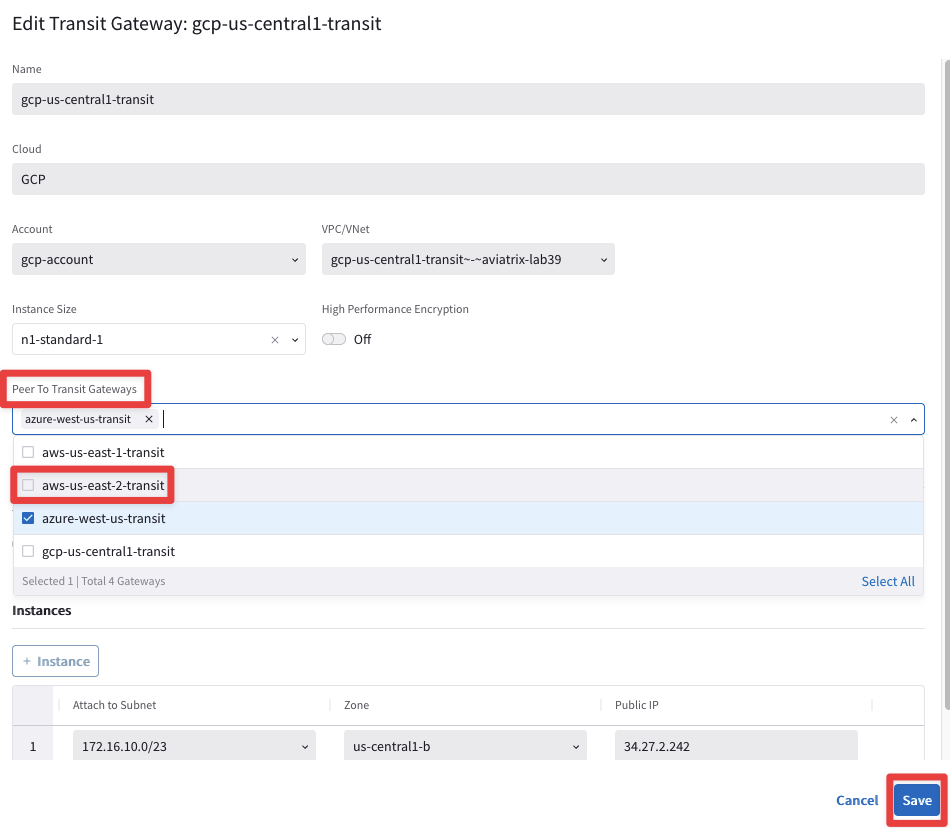
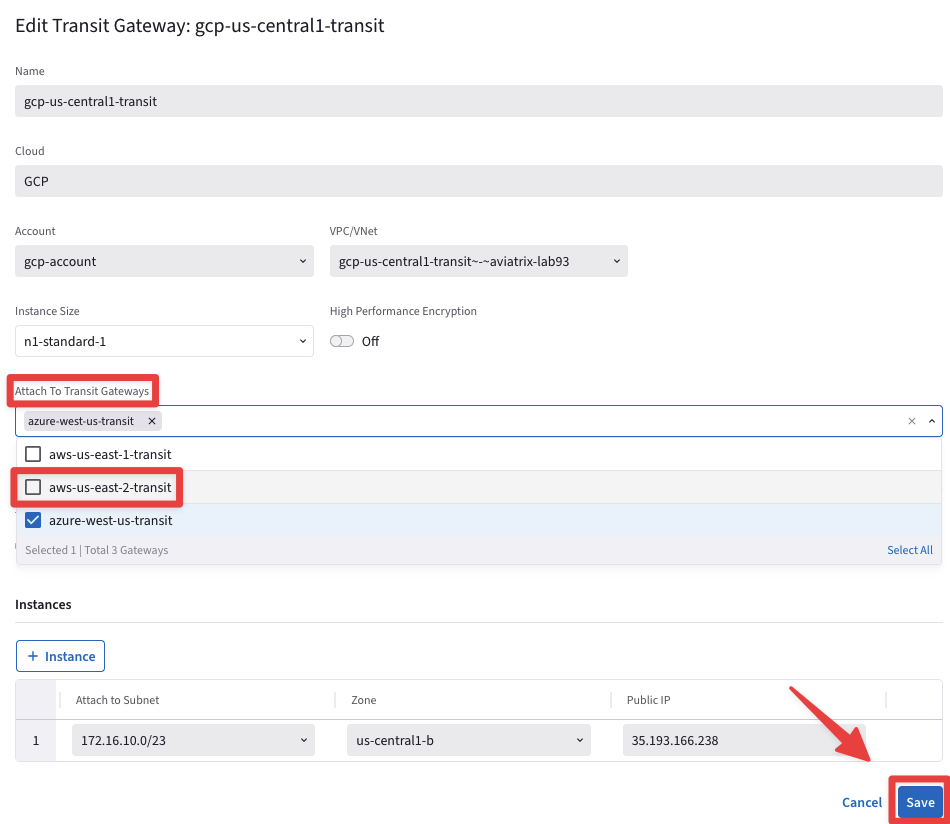
update for pro

diff --git a/ace_pro/docs/lab2.md b/ace_pro/docs/lab2.md
@@ -328,7 +328,7 @@ Commit
 These are very aggressive settings. In a Production environment, you should not set these intervals that frequently!
 ```
 
-## 4. Initial configuration
+## 5. Initial configuration
 
 Go to **CoPilot > Dashboard** and check the `Gateways Health` either of the Spoke GW Clusters or the Transit GW Clusters. 
 
@@ -386,7 +386,7 @@ You can notice that the cluster in AWS comprises two Spoke Gateways, whereas in 
 You can deploy up to maximum **fifteen** Spoke Gateways per each Spoke VPC/VNet/VCN.
 ```
 
-### 4.1. Aviatrix Transit Gateways
+### 5.1. Aviatrix Transit Gateways
 
 In this section, you will experience the power and simplicity of the Aviatrix platform by deploying (i.e. creating) 4 gateways:
 
@@ -412,7 +412,7 @@ align: center
 
 Deploy Aviatrix Transit Gateways in AWS **_East-2_** region. To save time, Aviatrix Transit Gateways in Azure, GCP and AWS east-1 region have already been pre-deployed in pairs for this lab.
 
-### 4.1.1.Transit Gateway in AWS US-EAST-2
+#### 5.1.1.Transit Gateway in AWS US-EAST-2
 
 Ensure these parameters are entered in the pop-up window `"Create Transit Gateway"`.
 
@@ -469,7 +469,7 @@ This action will instantiate the Transit Gateway with the following name:
 
 Meanwhile the deployment is happening, you may proceed to the next section of this lab guide to deploy your Spoke gateways.
 
-### 4.2. Aviatrix Spoke Gateways
+### 5.2. Aviatrix Spoke Gateways
 
 Navigate to the tab immediately to the right, which is `Spoke Gateways`.
 
@@ -483,7 +483,7 @@ align: center
 +Spoke Gateway
 ```
 
-### 4.2.1. Spoke Gateway in AWS
+#### 5.2.1. Spoke Gateway in AWS
 
 Ensure these parameters are entered in the pop-up window `"Create Spoke Gateway"`.
 
@@ -512,7 +512,7 @@ Create Spoke Gateway in AWS
 
 While the gateway is being created, you may proceed to the next section.
 
-### 4.2.2. Spoke Gateway in Azure
+#### 5.2.2. Spoke Gateway in Azure
 
 Repeat the previous steps for Azure, click on the button `"+ Spoke Gateway"` and ensure these parameters are entered in the pop-up window `"Create Spoke Gateway"`.
 
@@ -552,7 +552,7 @@ Spoke GW in Azure
 
 While the gateway is being created, you may proceed to the next section.
 
-### 4.2.3. Spoke Gateway in GCP
+#### 5.2.3. Spoke Gateway in GCP
 
 Repeat the previous steps for GCP. Ensure these parameters are entered in the pop-up window `"Create Spoke Gateway"`.
 
@@ -611,7 +611,7 @@ align: center
 Overview of the new topology
 ```
 
-## 4.3. Explore the Cloud Fabric
+## 6.. Explore the Cloud Fabric
 
 Go to **CoPilot > Cloud Fabric > Topology > Overview (default tab)**, then click on  the `"Managed"` button to only showing the Managed VPCs!
 
@@ -654,11 +654,11 @@ The inner circle represents the Transit Gateway VPCs, whereas the outer one repr
 
 In addition, you can explore the components of any of the gateways in terms of subnets and Virtual Machines that reside within the VPC/VNet.
  
-## 4.4 Aviatrix Spoke to Transit Gateways Attachments
+## 7. Aviatrix Spoke to Transit Gateways Attachments
 
 In this section you are going to attach the Aviatrix Spoke Gateways created above in each cloud, to their corresponding Aviatrix Transit Gateways.
  
-### 4.4.1. Spoke to Transit Attachment in AWS
+### 7.1. Spoke to Transit Attachment in AWS
 
 Go to **CoPilot > Cloud Fabric > Gateways > Spoke Gateways** and edit the Spoke Gateway **_aws-us-east-2-spoke1_**, clicking on the pencil icon:
 
@@ -688,7 +688,7 @@ align: center
 Update in progress
 ```
 
-### 4.4.2 Spoke to Transit Attachment in Azure
+### 7.2 Spoke to Transit Attachment in Azure
 
 - **azure-west-us-spoke1** to **azure-west-us-transit**
 
@@ -711,7 +711,7 @@ align: center
 Attachment in Azure
 ```
 
-### 4.4.3. Spoke to Transit Attachment in GCP
+### 7.3. Spoke to Transit Attachment in GCP
 
 - **gcp-us-central1-spoke1** to **gcp-us-central1-transit**
 
@@ -757,7 +757,7 @@ New state of the Dynamic Topology
 The Spoke Gateway azure-west-us-**spoke2** will be attached to its Transit Gateway in a subsequent lab, likewise the Spoke Gateways in AWS **us-east-1** will be attached to the Transit Gateway in the same region only in a subsequent lab.
 ```
 
-## 4.5. CoPilot Verification of Spoke-Transit Attachments
+## 8. CoPilot Verification of Spoke-Transit Attachments
 
 Go to **CoPilot > Cloud Fabric > Topology > Overview**
 
@@ -796,7 +796,7 @@ align: center
 Legend
 ```
 
-## 4.6. Multicloud Transit Peerings
+## 9. Multicloud Transit Peerings
 
 In this section you are going to establish the peerings among the Aviatrix Transit Gateways.
 
@@ -808,7 +808,7 @@ You do not need to configure peering in the opposite direction.
 
 Go back to **CoPilot > Cloud Fabric > Gateways > Transit Gateways**
  
-### 4.6.1. AWS and Azure
+### 9.1. AWS and Azure
 
 - **aws-us-east-2-transit** to **azure-west-us-transit**
 
@@ -822,7 +822,7 @@ align: center
 Edit Transit in AWS
 ```
 
-Select the Transit Gateway **_azure-west-us-transit_** from the drop-down window `"Peer To Transit Gateways"`, and then click on **Save**.
+Select the Transit Gateway **_azure-west-us-transit_** from the drop-down window `"Attach To Transit Gateways"`, and then click on **Save**.
 
 ```{figure} images/lab2-peeringawsazure.png
 ---
@@ -831,7 +831,7 @@ align: center
 Peering AWS-Azure
 ```
 
-### 4.6.2 Azure and GCP
+### 9.2 Azure and GCP
 
 - **azure-west-us-transit** to **gcp-us-central1-transit**
 
@@ -845,7 +845,7 @@ align: center
 Edit Transit in Azure
 ```
 
-Select the Transit Gateway **_gcp-us-central1-transit_** from the drop-down window `"Peer To Transit Gateways"`, and then click on **Save**.
+Select the Transit Gateway **_gcp-us-central1-transit_** from the drop-down window `"Attach To Transit Gateways"`, and then click on **Save**.
 
 ```{figure} images/lab2-peeringazuregcp.png
 ---
@@ -854,7 +854,7 @@ align: center
 Peering Azure-GCP
 ```
 
-### 4.6.3. GCP and AWS
+### 9.3. GCP and AWS
 
 - **gcp-us-central1-transit** to **aws-us-east-2-transit**
 
@@ -868,7 +868,7 @@ align: center
 Edit Transit in GCP
 ```
 
-Select the Transit Gateway **_aws-us-east-2-transit_** (<ins>not the east-1 !</ins>) from the drop-down window `"Peer To Transit Gateways"`, and then click on **Save**.
+Select the Transit Gateway **_aws-us-east-2-transit_** (<ins>not the east-1 !</ins>) from the drop-down window `"Attach To Transit Gateways"`, and then click on **Save**.
 
 ```{figure} images/lab2-peeringgcpaws.png
 ---
@@ -896,9 +896,9 @@ Please pay close attention that the following pending elements will be completed
 - Attachment between **aws-us-east-2-transit** and **on-prem-dc-edge**
 ```
 
-## 5. Verification
+## 10. Verification
  
-### 5.1. Verification of Transit Peerings on CoPilot (Cloud Fabric)
+### 10.1. Verification of Transit Peerings on CoPilot (Cloud Fabric)
 
 Go to **CoPilot > Cloud Fabric > Gateways > Transit Gateways**, select the Transit Gateway **_aws-us-east-2-transit_**, then select the `Attachments"` tab and finally select the `"Transit-Transit Peering"` tab: you will see **one** connection per each peering, that correspond to the `two IPSec tunnels`.
 
@@ -909,7 +909,7 @@ align: center
 Verification
 ```
 
-### 5.2. Verification of Transit Peerings on CoPilot (Topology)
+### 10.2. Verification of Transit Peerings on CoPilot (Topology)
 
 Go to **CoPilot > Cloud Fabric > Topology > Overview**
 
@@ -933,7 +933,7 @@ align: center
 Expanded Topology
 ```
 
-### 5.3. Route Info DB
+### 10.3. Route Info DB
 
 Route Info DB is akin to the *Routing Information Base (RIB)*. It will provide the overall routing information of a Transit Gateway known by the CoPilot.
 
@@ -956,11 +956,11 @@ align: center
 Route DB
 ```
 
-## 6. Final Connectivity Testing
+## 11. Final Connectivity Testing
 
 Verify that each test instance can ping each other.
 
-### 6.1 Connectivity Test Using the Gatus App
+### 11.1 Connectivity Test Using the Gatus App
 
 Navigate to your POD Portal, locate the `Gatus widget`, and select **_aws-us-east-2-spoke1-test1_** as an example. 
 
@@ -992,7 +992,7 @@ You will observe that both ICMP and SSH tests have successfully completed for al
 Review the Gatus App status for the other instances in Azure and GCP.
 ```
 
-### 6.1 Connectivity Test Using the SSH Client <span style='color:#33ECFF'>(BONUS)</span></summary>
+### 10.2 Connectivity Test Using the SSH Client <span style='color:#33ECFF'>(BONUS)</span></summary>
 
 If you're not satisfied with the Gatus dashboard, you can also use your personal `SSH client` to perform the connectivity tests!
 

diff --git a/ace_pro/docs/lab4.md b/ace_pro/docs/lab4.md
@@ -65,7 +65,7 @@ align: center
 Attachment
 ```
 
-## 4.3. CoPilot View after Transit-Spoke Attachment
+### 4.3. CoPilot View after Transit-Spoke Attachment
 
 Go to **CoPilot > Cloud Fabric > Topology > Overview**
 
@@ -88,7 +88,7 @@ Solid line = HPE connection
 Dashed line = Non-HPE connection
 ```
 
-## 4.4. Transit Peerings Configuration
+## 5. Transit Peerings Configuration
 
 Here you will configure Transit Peering between **aws-us-east-1** and **aws-us-east-2** regions.
 
@@ -115,7 +115,7 @@ align: center
 Peering
 ```
 
-### 4.4.1. Transit Peerings Verification
+### 5.1. Transit Peerings Verification
 
 Go to **CoPilot > Cloud Fabric > Gateways > Transit Gateways**, select the Transit Gateway **_aws-us-east-1-transit_**, select the `"Gateway Routes"` tab and check the route **10.0.1.0/24** for instance.
 
@@ -159,9 +159,9 @@ CoPilot Topology View
 The actual configuration of **`High Performance Encryption`**  on both the **_aws-us-east-1-transit_** and the **_aws-us-east-1-spoke1_** was done when the gateways were created before this lab.
 ```
 
-## 5. High Performance Encryption Verification
+## 6. High Performance Encryption Verification
 
-### 5.1. CoPilot Verification of the VPC Peerings(Transit-Transit and Spoke-Transit)
+### 6.1. CoPilot Verification of the VPC Peerings(Transit-Transit and Spoke-Transit)
 
 HPE automatically creates an underlying **VPC Peering attachment** within AWS. Verify it on the CoPilot.
 
@@ -185,7 +185,7 @@ align: center
 Native Peerings Properties
 ```
 
-## 5.2. CoPilot Verification of HPE
+### 6.2. CoPilot Verification of HPE
 
 Go to **CoPilot > Cloud Fabric > Gateways > Transit Gateways**, select the Transit Gateway **_aws-us-east-1-transit_**, select the `"Interfaces"` tab and check the huge number of tunnel interfaces that HPE has instantiated. 
 
@@ -198,9 +198,9 @@ align: center
 Interface Stats
 ```
 
-## 6. ActiveMesh
+## 7. ActiveMesh
 
-### 6.1. CoPilot Verification of ActiveMesh
+### 7.1. CoPilot Verification of ActiveMesh
 
 Go to **CoPilot > Diagnostics > Cloud Routes > VPC/VNet Routes**
 
